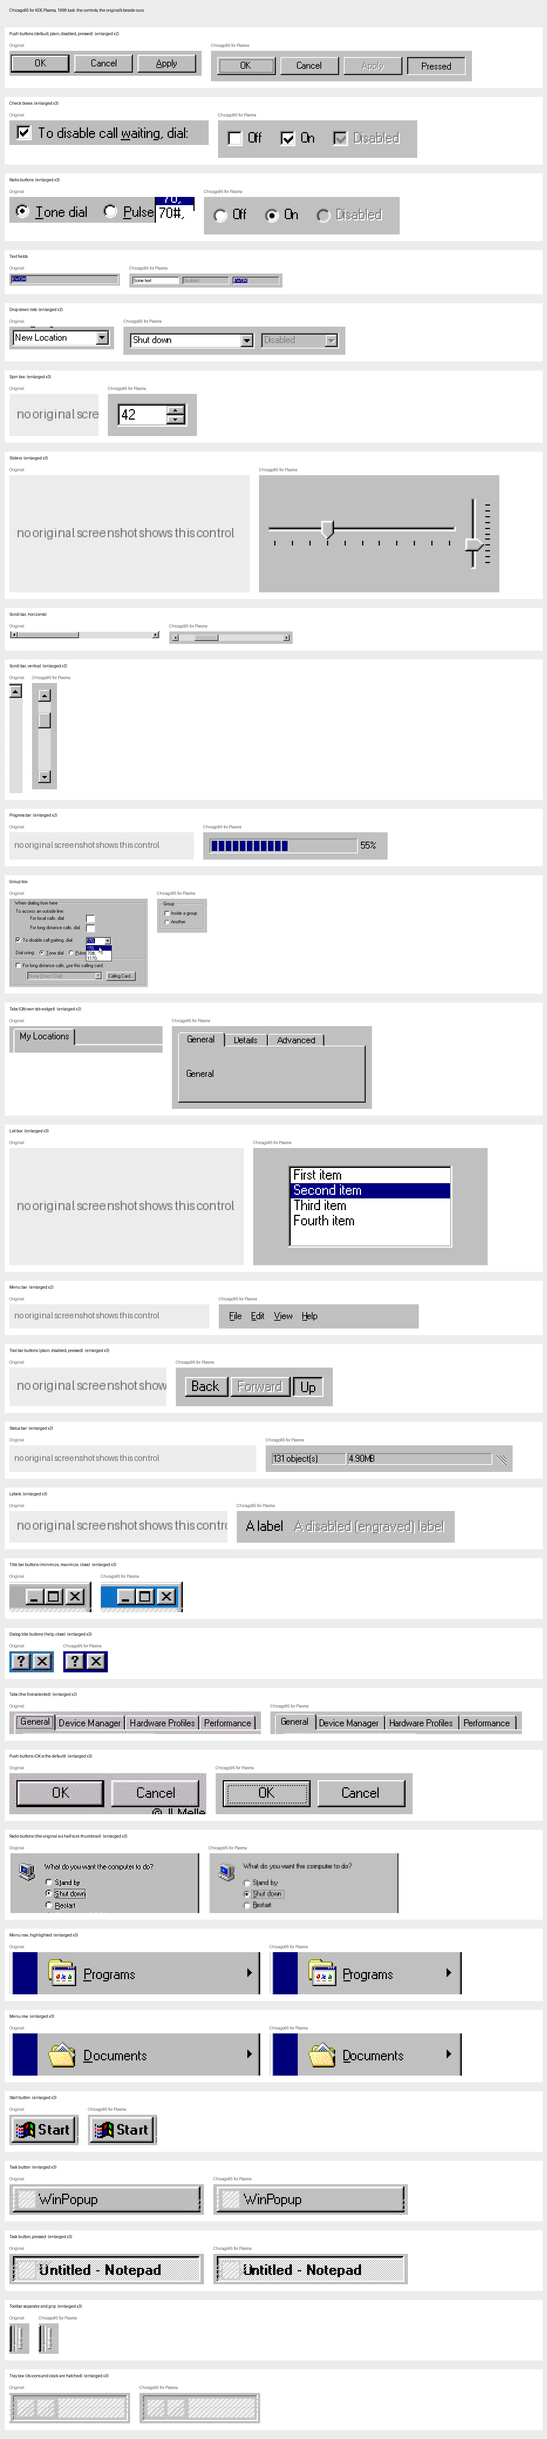
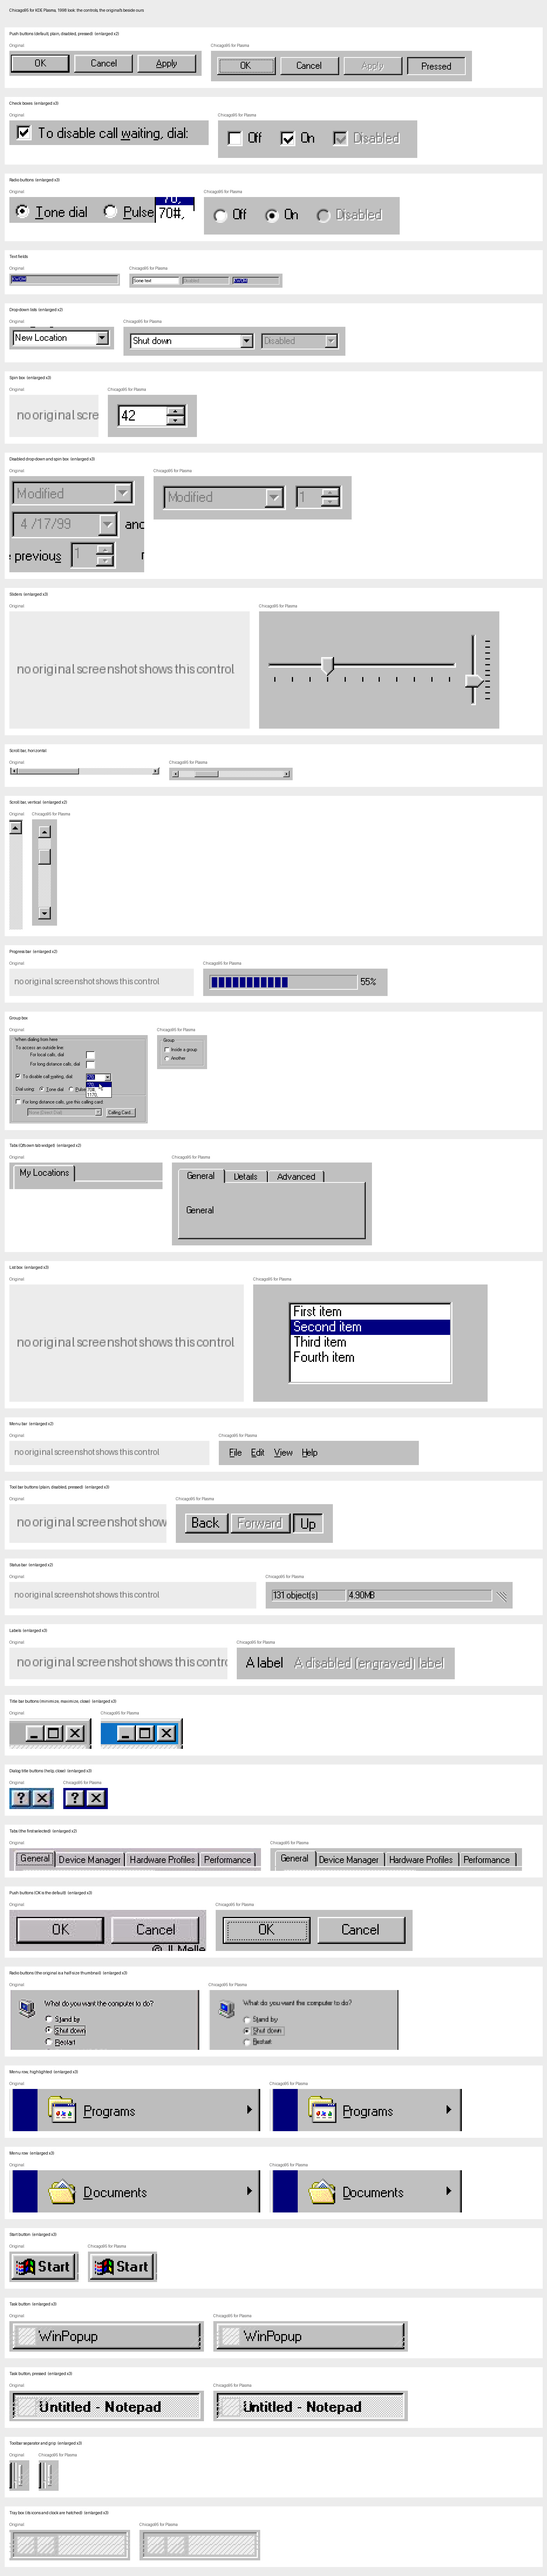
Add disabled drop-down and spin box components, enhance related tests and references

Changed region(s): [[0.0, 0.0, 0.9521, 0.9997], [0.7679, 0.0, 0.8293, 0.0312]]

diff --git a/tests/test_control_panel_components_reference.py b/tests/test_control_panel_components_reference.py
@@ -229,14 +229,14 @@ def test_apply_question_answers_yes_no_or_cancel(control_panel, qt_app, name, an
     assert question.answer == answer
 
 
-def test_the_original_scroll_bar_thumb_is_raised_white_edge_face_shadow_black():
-    image = reference_image("win98mycomputer")
-    row = [image.getpixel((x, 200)) for x in range(380, 400)]
+def test_the_original_scroll_bar_is_16_wide_with_a_dithered_track():
+    """Date/Time Properties' open list (tests/references/win98datetime03.png) shows the track at 1:1."""
+    image = reference_image("win98datetime03")
+    row = [image.getpixel((x, 150)) for x in range(360, 390)]
     black = next(position for position, colour in enumerate(row) if colour == (0, 0, 0))
-    white = max(position for position, colour in enumerate(row[:black]) if colour == (255, 255, 255))
-    shadow = row[black - 1]
+    track = row[black - 16:black]
 
-    assert (black - white > 8, {row[x] for x in range(white + 1, black - 1)}, 90 < sum(shadow) // 3 < 140) == (True, {(191, 191, 191)}, True)
+    assert (len(set(track)), track[0] == track[2], track[1] == track[3], set(track)) == (2, True, True, {(192, 192, 192), (255, 255, 255)})
 
 
 def test_our_icon_views_scroll_bar_is_16_wide_with_a_dithered_track(control_panel, qt_app, tmp_path):
@@ -438,3 +438,97 @@ def test_our_enabled_drop_down_field_is_white_and_a_disabled_one_takes_the_windo
         fields.append((classify(image.getpixel((150, 11))), classify(image.getpixel((30, 4)))))
 
     assert fields == [("W", "W"), ("f", "f")]
+
+
+# ---- a property sheet: tests/references/win98propertysheet.png (Regional Settings Properties). Its window border is
+# 2px, so client positions are the picture's minus 2.
+
+def test_the_original_property_sheet_puts_75_by_23_buttons_81_apart_6_rows_under_the_page_and_8_from_the_bottom():
+    image = reference_image("win98propertysheet")
+    column = [y for y in range(400, image.height) if sum(image.getpixel((195, y))) // 3 < 60]
+    page_bottom, button_top, button_bottom = column[0], column[1], column[-2]
+    edges = [x for x in range(150, 400) if image.getpixel((x, 425)) == (0, 0, 0)]
+
+    assert (button_top - page_bottom - 1, button_bottom - button_top + 1, image.height - 2 - button_bottom - 1, edges[0], edges[-1]) == (6, 23, 8, 158, 394)
+
+
+def test_our_property_page_puts_its_buttons_as_the_original_does(control_panel, qt_app, tmp_path):
+    window = control_panel.ControlPanel(settings_path=tmp_path / "setup.conf")
+    window.open_applet("Taskbar")
+    window.resize(404, 560)
+    window.show()
+    qt_app.processEvents()
+    page = window.pages.currentWidget()
+    ok, cancel, apply = (getattr(page, name).geometry() for name in ("ok_button", "cancel_button", "apply_button"))
+    page_bottom = page.tabs.geometry().bottom()
+
+    assert (ok.size().toTuple(), cancel.left() - ok.left(), apply.left() - cancel.left(), ok.top() - page_bottom - 1, page.height() - 1 - ok.bottom(), page.width() - 1 - apply.right()) == (
+        (75, 23), 81, 81, 6, 8, 8)
+
+
+def test_the_originals_focused_drop_down_fills_its_field_navy_inside_a_white_line():
+    image = reference_image("win98propertysheet")
+
+    assert ([image.getpixel((200, y)) for y in (108, 109, 110)], navy(image.getpixel((200, 118))), navy(image.getpixel((330, 118)))) == (
+        [(128, 128, 128), (0, 0, 0), (255, 255, 255)], True, True)
+
+
+def test_our_focused_drop_down_fills_its_field_navy_inside_a_white_line(control_panel, qt_app):
+    import chicago95ui
+    from PySide6.QtWidgets import QComboBox
+    combo = chicago95ui.classic_combo(QComboBox())
+    combo.addItem("English (Australian)")
+    combo.resize(312, 22)
+    combo.show()
+    combo.setFocus()
+    qt_app.processEvents()
+    image = render(combo)
+
+    assert ([image.getpixel((150, y)) for y in (0, 1, 2)], navy(image.getpixel((150, 11))), navy(image.getpixel((8, 11))), navy(image.getpixel((280, 11)))) == (
+        [(128, 128, 128), (0, 0, 0), (255, 255, 255)], True, True, True)
+
+
+# ---- the same open list at 1:1 (tests/references/win98datetime03.png) and a disabled check box (win98datetime04.png,
+# enabled in win98datetime02.png): a disabled box is filled with the window colour and its check is shadow grey.
+
+def test_the_original_open_list_at_1_to_1_has_13_pixel_rows_a_black_border_and_a_highlight_touching_it():
+    image = reference_image("win98datetime03")
+    first, last = runs([navy(image.getpixel((300, y))) for y in range(100, 250)])[0]
+    highlight_left = runs([navy(image.getpixel((x, 100 + first))) for x in range(image.width)])[0][0]
+    border_left = next(x for x in range(10, 30) if image.getpixel((x, 150)) == (0, 0, 0))
+
+    assert (last - first + 1, highlight_left - border_left, image.getpixel((200, 79))) == (13, 1, (0, 0, 0))
+
+
+def test_the_originals_disabled_check_box_is_face_filled_with_a_shadow_check_and_the_enabled_one_white_with_black():
+    disabled = reference_image("win98datetime04")
+    enabled = reference_image("win98datetime02")
+    disabled_inside = {disabled.getpixel((x, 287)) for x in range(23, 33)}
+    enabled_inside = {enabled.getpixel((x, 287)) for x in range(24, 33)}
+
+    assert (disabled_inside, enabled_inside) == ({(192, 192, 192), (128, 128, 128)}, {(255, 255, 255), (0, 0, 0)})
+
+
+def check_box_inside(qt_app, enabled):
+    box = QCheckBox("Automatically adjust clock")
+    box.setChecked(True)
+    box.setEnabled(enabled)
+    box.resize(box.sizeHint())
+    box.show()
+    qt_app.processEvents()
+    image = render(box)
+    face = box.palette().window().color().getRgb()[:3]
+    shadow = box.palette().dark().color().getRgb()[:3]
+    return {image.getpixel((x, 8)) for x in range(2, 11)}, face, shadow
+
+
+def test_our_disabled_check_box_is_face_filled_with_a_shadow_check(qt_app):
+    inside, face, shadow = check_box_inside(qt_app, enabled=False)
+
+    assert inside == {face, shadow}
+
+
+def test_our_enabled_check_box_is_white_with_a_black_check(qt_app):
+    inside, _face, _shadow = check_box_inside(qt_app, enabled=True)
+
+    assert inside == {(255, 255, 255), (0, 0, 0)}

diff --git a/lib/chicago95ui.py b/lib/chicago95ui.py
@@ -323,6 +323,7 @@ CHECK_BOX = ["ssssssssssssW", "sKKKKKKKKKKlW"] + ["sKiiiiiiiiilW"] * 9 + ["sllll
 CHECK_MARK = ["WWWWWWWWW", "WWWWWWWKW", "WWWWWWKKW", "WKWWWKKKW", "WKKWKKKWW", "WKKKKKWWW", "WWKKKWWWW", "WWWKWWWWW", "WWWWWWWWW"]
 RADIO_BUTTON = ["....ssss....", "..ssKKKKss..", ".sKKiiiiKKW.", ".sKiiiiiilW.", "sKiiiiiiiilW", "sKiiiiiiiilW",
                 "sKiiiiiiiilW", "sKiiiiiiiilW", ".sKiiiiiilW.", ".slliiiillW.", "..WWllllWW..", "....WWWW...."]
+DROP_DOWN_ARROW = ["KKKKKKK", ".KKKKK.", "..KKK..", "...K..."]
 RADIO_DOT = [(5, 4), (6, 4), (4, 5), (5, 5), (6, 5), (7, 5), (4, 6), (5, 6), (6, 6), (7, 6), (5, 7), (6, 7)]
 
 
@@ -402,6 +403,25 @@ class ClassicStyle(QProxyStyle):
             painter.fillRect(inside, option.palette.base() if option.state & QStyle.State_Enabled else option.palette.window())
             if option.state & QStyle.State_HasFocus:
                 painter.fillRect(self.subControlRect(QStyle.CC_ComboBox, option, QStyle.SC_ComboBoxEditField, widget), option.palette.highlight())
+            self.paint_drop_down_arrow(option, painter, arrow)
+
+    def paint_drop_down_arrow(self, option, painter, button):
+        """The originals' 7-5-3-1 arrow in the middle of the button; disabled, engraved."""
+        painter.fillRect(button.adjusted(2, 2, -2, -2), option.palette.button())
+        pushed = 1 if option.state & QStyle.State_Sunken else 0
+        left = button.left() + (button.width() - 7) // 2 + pushed
+        top = button.top() + (button.height() - 5) // 2 + pushed
+        if option.state & QStyle.State_Enabled:
+            paint_bitmap(painter, left, top, DROP_DOWN_ARROW, {"K": option.palette.buttonText().color()})
+            return
+        paint_bitmap(painter, left + 1, top + 1, DROP_DOWN_ARROW, {"K": option.palette.light().color()})
+        paint_bitmap(painter, left, top, DROP_DOWN_ARROW, {"K": option.palette.dark().color()})
+
+    def sizeFromContents(self, contents, option, size, widget=None):
+        grown = super().sizeFromContents(contents, option, size, widget)
+        if contents == QStyle.CT_ComboBox:
+            grown.setHeight(grown.height() + 1)   # the originals' lists are a row taller than Qt's
+        return grown
 
     def drawControl(self, element, option, painter, widget=None):
         if element == QStyle.CE_TabBarTabLabel and not option.state & QStyle.State_Selected:

diff --git a/tests/test_qt_controls_reference.py b/tests/test_qt_controls_reference.py
@@ -190,3 +190,35 @@ def test_disabled_indicator_keeps_its_white_outer_edge_around_a_window_coloured_
     middle, inside = disabled.width // 2, (3, 4)   # inside: clear of the tick and the dot
     assert (enabled.getpixel((middle, enabled.height - 1)), disabled.getpixel((middle, disabled.height - 1)), disabled.getpixel(inside)) \
         == ((255, 255, 255), (255, 255, 255), face)
+
+
+DISABLED_DROP_DOWN_BUTTON = (195, 104, 217, 125)   # win98finddate.png: the "Modified" list's right end, frame to frame
+
+
+def drop_down_image(qt_app, enabled):
+    import chicago95ui
+    from PySide6.QtWidgets import QComboBox
+    from reference import qimage_to_pil
+    combo = chicago95ui.classic_combo(QComboBox())
+    combo.addItem("Modified")
+    combo.setFixedWidth(105)
+    combo.setEnabled(enabled)
+    combo.show()
+    qt_app.processEvents()
+    image = qimage_to_pil(combo.grab().toImage())
+    combo.close()
+    return image
+
+
+def test_disabled_drop_down_ends_in_the_originals_arrow_button_with_an_engraved_arrow(qt_app):
+    """The Find window's disabled list: 21px tall, its button's 7-5-3-1 arrow grey with a white copy a pixel down and right."""
+    ours = drop_down_image(qt_app, enabled=False)
+    theirs = screenshot("win98finddate").crop(DISABLED_DROP_DOWN_BUTTON)
+    assert same_pixels(ours.crop((ours.width - theirs.width, 0, ours.width, ours.height)), theirs), ours.size
+
+
+def test_enabled_drop_down_arrow_is_a_black_7_5_3_1_triangle(qt_app):
+    ours = drop_down_image(qt_app, enabled=True)
+    face = ours.crop((ours.width - 16, 4, ours.width - 6, ours.height - 5))   # inside the button's bevel
+    widths = [sum(1 for x in range(face.width) if face.getpixel((x, y)) == (0, 0, 0)) for y in range(face.height)]
+    assert [width for width in widths if width] == [7, 5, 3, 1], widths

diff --git a/tests/controls_gallery.py b/tests/controls_gallery.py
@@ -72,6 +72,19 @@ def drop_down():
     return row(combo, disabled)
 
 
+def disabled_fields():
+    import chicago95ui
+    combo = chicago95ui.classic_combo(QComboBox())
+    combo.addItem("Modified")
+    combo.setFixedWidth(105)
+    spin = chicago95ui.plain_disabled_text(QSpinBox())
+    spin.setValue(1)
+    spin.setFixedWidth(40)
+    for widget in (combo, spin):
+        widget.setEnabled(False)
+    return row(combo, spin)
+
+
 def spin_box():
     box = QSpinBox()
     box.setRange(0, 100)
@@ -185,6 +198,7 @@ CONTROLS = [
     ("Text fields", text_fields),
     ("Drop-down lists", drop_down),
     ("Spin box", spin_box),
+    ("Disabled drop-down and spin box", disabled_fields),
     ("Sliders", sliders),
     ("Scroll bar, horizontal", lambda: scroll_bar(Qt.Horizontal, 300)),
     ("Scroll bar, vertical", lambda: scroll_bar(Qt.Vertical, 120)),
@@ -213,6 +227,7 @@ ORIGINALS = {
         "Text fields": ("win98newconnection", (148, 62, 431, 93)),
         "Drop-down lists": ("win98dialing", (32, 71, 166, 100)),
         "Group box": ("win98dialing", (20, 148, 374, 374)),
+        "Disabled drop-down and spin box": ("win98finddate", (110, 100, 225, 182)),
         "Tabs (Qt's own tab widget)": ("win98dialing", (4, 26, 200, 60)),
         "Scroll bar, horizontal": ("win98notepad", (7, 342, 392, 360)),
         "Scroll bar, vertical": ("win98notepad", (389, 47, 406, 188)),   # down to the alert that covers the rest

diff --git a/tests/references/SOURCES.md b/tests/references/SOURCES.md
@@ -43,3 +43,9 @@ System Properties, from other pages:
 | `win98dialing.png` | http://www.kwom.com/images/Win98/W98setupD3.gif (the Dialing Properties dialog: check boxes, radio buttons, an open drop-down, fields, a group box; a palette GIF, saved as PNG) |
 | `win98newconnection.png` | http://www.kwom.com/images/Win98/W98setupA6.gif (the Make New Connection wizard's last page: a text field with its text selected; a palette GIF, saved as PNG) |
 | `win98disabledgroup.png` | screenshot supplied by the project owner (a disabled "User profile settings" group: engraved caption, disabled check boxes and labels; scaled and smoothed, so rules only, not exact pixels) |
+| `win98finddate.png` | https://www.tech2u.com.au/training/tech2u/win98_2/images/finddate01.gif (Find: All Files, Date tab: disabled drop-downs, spin boxes and a disabled push button; a palette GIF, saved as PNG) |
+| `win98propertysheet.png` | https://www.tech2u.com.au/training/tech2u/win98_2/images/language01.gif (Windows 98 Regional Settings Properties: a property sheet with its button row and a focused drop-down) |
+| `win98datetime01.png` | https://www.tech2u.com.au/training/tech2u/win98_2/images/date01.gif (Windows 98 Date/Time Properties: the Date & Time tab: spin boxes, a focused drop-down, group frames) |
+| `win98datetime02.png` | https://www.tech2u.com.au/training/tech2u/win98_2/images/date02.gif (Windows 98 Date/Time Properties: the Time Zone tab with its check box) |
+| `win98datetime03.png` | https://www.tech2u.com.au/training/tech2u/win98_2/images/date03.gif (Windows 98 Date/Time Properties: an open drop-down list at 1:1) |
+| `win98datetime04.png` | https://www.tech2u.com.au/training/tech2u/win98_2/images/date04.gif (Windows 98 Date/Time Properties: a disabled check box and an enabled Apply) |
